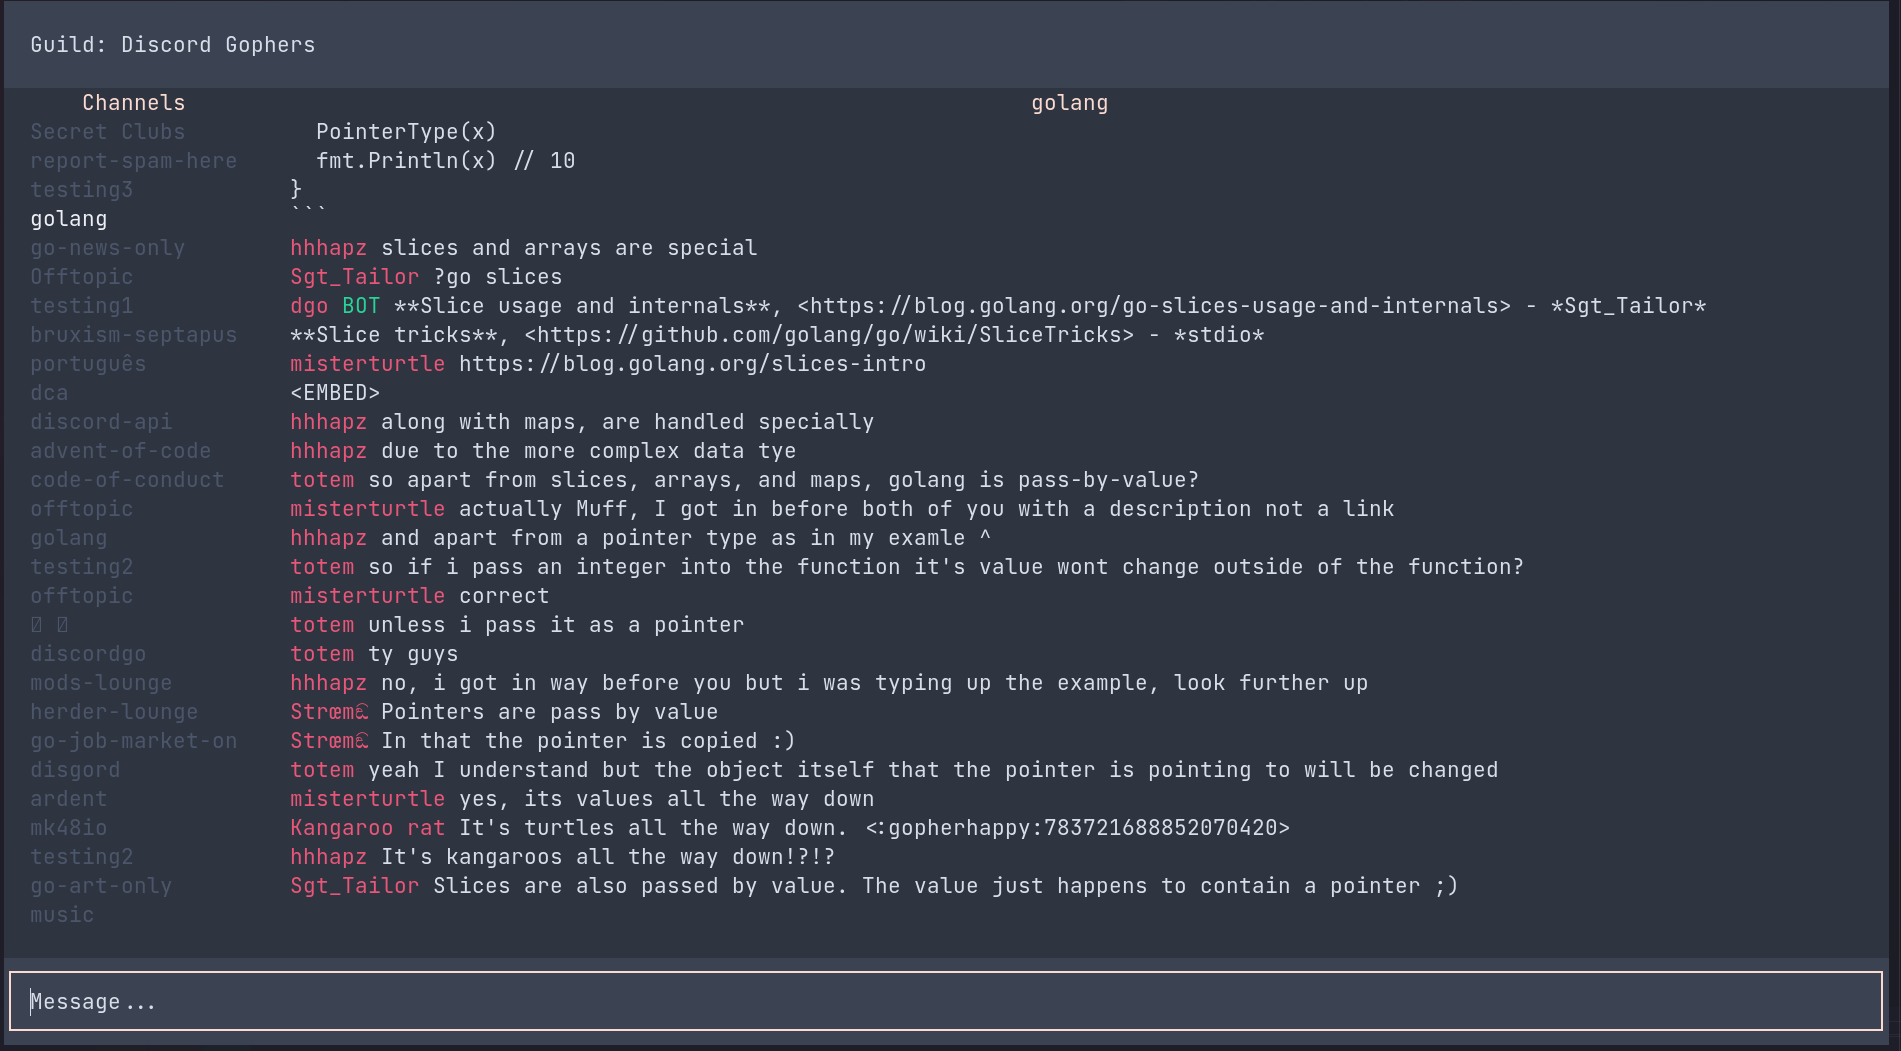
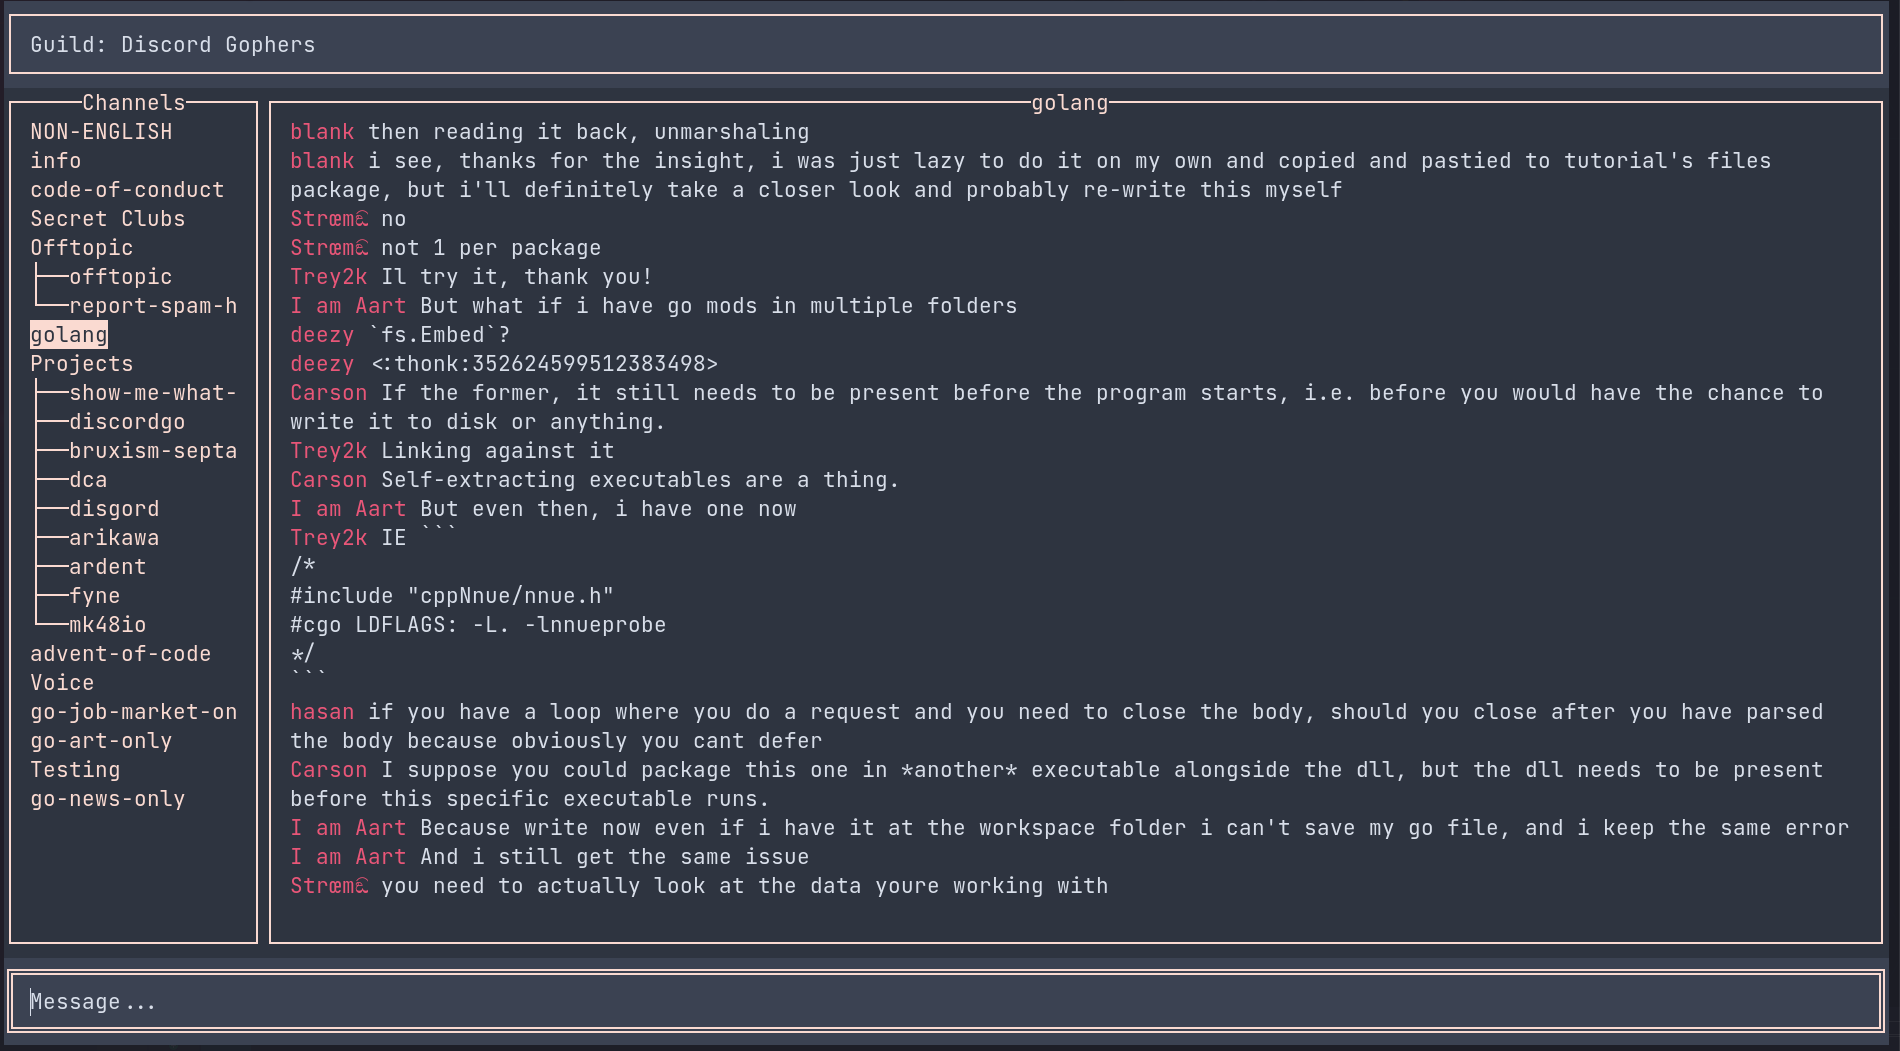
Implement ChannelsTreeView Component for categories (#7)
* Add ChannelsTreeView component

* Remove ChannelsList component

* Implement ChannelsTreeView comp for categories

* Update README preview

diff --git a/discordo.go b/discordo.go
@@ -1,6 +1,7 @@
 package main
 
 import (
+	"sort"
 	"strings"
 
 	"github.com/bwmarrin/discordgo"
@@ -15,7 +16,8 @@ var (
 	loginModal        *tview.Modal
 	loginForm         *tview.Form
 	guildsDropDown    *tview.DropDown
-	channelsList      *tview.List
+	channelsTreeView  *tview.TreeView
+	channelsTreeNode  *tview.TreeNode
 	messagesTextView  *tview.TextView
 	messageInputField *tview.InputField
 	mainFlex          *tview.Flex
@@ -28,25 +30,13 @@ var (
 )
 
 func main() {
-	tview.Borders.HorizontalFocus = tview.Borders.Horizontal
-	tview.Borders.VerticalFocus = tview.Borders.Vertical
-	tview.Borders.TopLeftFocus = tview.Borders.TopLeft
-	tview.Borders.TopRightFocus = tview.Borders.TopRight
-	tview.Borders.BottomLeftFocus = tview.Borders.BottomLeft
-	tview.Borders.BottomRightFocus = tview.Borders.BottomRight
-	tview.Borders.Horizontal = ' '
-	tview.Borders.Vertical = ' '
-	tview.Borders.TopLeft = ' '
-	tview.Borders.TopRight = ' '
-	tview.Borders.BottomLeft = ' '
-	tview.Borders.BottomRight = ' '
-
 	theme = util.NewTheme()
 	loginModal = ui.NewLoginModal(onLoginModalDone)
 	guildsDropDown = ui.NewGuildsDropDown(onGuildsDropDownSelected, theme)
-	channelsList = ui.NewChannelsList(onChannelsListSelected, theme)
+	channelsTreeNode = ui.NewChannelsTreeNode()
+	channelsTreeView = ui.NewChannelsTreeView(channelsTreeNode, onChannelsTreeViewSelected, theme)
 	messagesTextView = ui.NewMessagesTextView(onMessagesTextViewChanged, theme)
-	mainFlex = ui.NewMainFlex(guildsDropDown, channelsList, messagesTextView)
+	mainFlex = ui.NewMainFlex(guildsDropDown, channelsTreeView, messagesTextView)
 	app = ui.NewApp()
 
 	token := util.GetPassword("token")
@@ -145,7 +135,7 @@ func onMessageCreate(_ *discordgo.Session, message *discordgo.MessageCreate) {
 }
 
 func onGuildsDropDownSelected(text string, _ int) {
-	channelsList.Clear()
+	channelsTreeNode.ClearChildren()
 	messagesTextView.Clear()
 
 	if messageInputField != nil {
@@ -162,17 +152,33 @@ func onGuildsDropDownSelected(text string, _ int) {
 		}
 	}
 
-	channelsList.SetTitle("Channels")
-	app.SetFocus(channelsList)
+	channelsTreeView.SetTitle("Channels")
+	app.SetFocus(channelsTreeView)
 
-	for i := range currentGuild.Channels {
-		channel := currentGuild.Channels[i]
-		channelsList.AddItem(channel.Name, "", 0, nil)
+	channels := currentGuild.Channels
+	sort.Slice(channels, func(i, j int) bool {
+		return channels[i].Position < channels[j].Position
+	})
+
+	for i := range channels {
+		channel := channels[i]
+		channelNode := tview.NewTreeNode(channel.Name).
+			SetReference(channel)
+
+		if channel.ParentID == "" {
+			channelsTreeNode.AddChild(channelNode)
+			continue
+		}
+
+		if channel.Type == discordgo.ChannelTypeGuildCategory {
+			channelNode.SetColor(tcell.ColorLightCyan)
+			channelsTreeNode.AddChild(channelNode)
+			continue
+		}
 	}
-
 }
 
-func onChannelsListSelected(i int, mainText string, secondaryText string, _ rune) {
+func onChannelsTreeViewSelected(node *tview.TreeNode) {
 	messagesTextView.Clear()
 
 	if messageInputField == nil {
@@ -180,14 +186,33 @@ func onChannelsListSelected(i int, mainText string, secondaryText string, _ rune
 		mainFlex.AddItem(messageInputField, 3, 1, false)
 	}
 
-	currentChannel = currentGuild.Channels[i]
+	currentChannel = node.GetReference().(*discordgo.Channel)
+	switch currentChannel.Type {
+	case discordgo.ChannelTypeGuildCategory:
+		if len(node.GetChildren()) == 0 {
+			for i := range currentGuild.Channels {
+				channel := currentGuild.Channels[i]
+				if channel.ParentID == currentChannel.ID {
+					channelNode := tview.NewTreeNode(channel.Name).
+						SetReference(channel)
+					node.AddChild(channelNode)
+				}
+			}
+		} else {
+			node.SetExpanded(!node.IsExpanded())
+		}
+	case discordgo.ChannelTypeGuildText:
+		messagesTextView.SetTitle(currentChannel.Name)
+		app.SetFocus(messageInputField)
 
-	messagesTextView.SetTitle(currentChannel.Name)
-	app.SetFocus(messageInputField)
+		messages, err := session.ChannelMessages(currentChannel.ID, 50, "", "", "")
+		if err != nil {
+			panic(err)
+		}
 
-	messages := util.GetMessages(session, currentChannel.ID, 50)
-	for i := len(messages) - 1; i >= 0; i-- {
-		util.WriteMessage(messagesTextView, session, messages[i])
+		for i := len(messages) - 1; i >= 0; i-- {
+			go util.WriteMessage(messagesTextView, session, messages[i])
+		}
 	}
 }
 
@@ -200,7 +225,10 @@ func onMessageInputFieldDone(key tcell.Key) {
 			return
 		}
 
-		util.SendMessage(session, currentChannel.ID, currentText)
+		_, err := session.ChannelMessageSend(currentChannel.ID+"123", currentText)
+		if err != nil {
+			panic(err)
+		}
 
 		messageInputField.SetText("")
 	}

diff --git a/util/theme.go b/util/theme.go
@@ -11,9 +11,7 @@ type Theme struct {
 	InputFieldBackground            string `json:"inputField.background"`
 	InputFieldForeground            string `json:"inputField.foreground"`
 	InputFieldPlaceholderForeground string `json:"inputField.placeholderTextForeground"`
-	ListBackground                  string `json:"list.background"`
-	ListMainTextForeground          string `json:"list.mainTextForeground"`
-	ListSelectedForeground          string `json:"list.selectedTextForeground"`
+	TreeViewBackground              string `json:"treeview.background"`
 	TextViewBackground              string `json:"textview.background"`
 	TextViewForeground              string `json:"textview.foreground"`
 }
@@ -22,9 +20,7 @@ func NewTheme() *Theme {
 	var theme Theme
 	theme.TextViewBackground = "#2E3440"
 	theme.TextViewForeground = "#D8DEE9"
-	theme.ListBackground = "#2E3440"
-	theme.ListMainTextForeground = "#4C566A"
-	theme.ListSelectedForeground = "#ECEFF4"
+	theme.TreeViewBackground = "#2E3440"
 	theme.InputFieldBackground = "#3B4252"
 	theme.InputFieldForeground = "#D8DEE9"
 	theme.InputFieldPlaceholderForeground = "#D8DEE9"

diff --git a/ui/flex.go b/ui/flex.go
@@ -4,20 +4,14 @@ import (
 	"github.com/rivo/tview"
 )
 
-func NewMainFlex(guildsDropDown *tview.DropDown, channelsList *tview.List, messagesTextView *tview.TextView) (mainFlex *tview.Flex) {
-	midFlex := NewMidFlex(channelsList, messagesTextView)
+func NewMainFlex(guildsDropDown *tview.DropDown, channelsTreeView *tview.TreeView, messagesTextView *tview.TextView) (mainFlex *tview.Flex) {
+	midFlex := tview.NewFlex().
+		AddItem(channelsTreeView, 20, 1, false).
+		AddItem(messagesTextView, 0, 3, false)
 	mainFlex = tview.NewFlex().
 		SetDirection(tview.FlexRow).
 		AddItem(guildsDropDown, 3, 1, false).
 		AddItem(midFlex, 0, 1, false)
-
-	return
-}
-
-func NewMidFlex(channelsList *tview.List, messagesTextView *tview.TextView) (midFlex *tview.Flex) {
-	midFlex = tview.NewFlex().
-		AddItem(channelsList, 20, 1, false).
-		AddItem(messagesTextView, 0, 3, false)
 
 	return
 }

diff --git a/ui/treeviews.go b/ui/treeviews.go
@@ -1,0 +1,26 @@
+package ui
+
+import (
+	"github.com/gdamore/tcell/v2"
+	"github.com/rigormorrtiss/discordo/util"
+	"github.com/rivo/tview"
+)
+
+func NewChannelsTreeView(channelsTreeNode *tview.TreeNode, onChannelsTreeViewSelected func(node *tview.TreeNode), theme *util.Theme) (channelsTreeView *tview.TreeView) {
+	channelsTreeView = tview.NewTreeView().
+		SetTopLevel(1).
+		SetRoot(channelsTreeNode).
+		SetCurrentNode(channelsTreeNode).
+		SetSelectedFunc(onChannelsTreeViewSelected)
+	channelsTreeView.
+		SetBackgroundColor(tcell.GetColor(theme.TreeViewBackground)).
+		SetBorder(true).
+		SetBorderPadding(0, 0, 1, 1)
+
+	return
+}
+
+func NewChannelsTreeNode() (channelsTreeNode *tview.TreeNode) {
+	channelsTreeNode = tview.NewTreeNode("")
+	return
+}

diff --git a/util/discord.go b/util/discord.go
@@ -45,19 +45,3 @@ func WriteMessage(messagesTextView *tview.TextView, session *discordgo.Session, 
 
 	fmt.Fprintln(messagesTextView, content.String())
 }
-
-func SendMessage(session *discordgo.Session, channelID string, content string) {
-	_, err := session.ChannelMessageSend(channelID, content)
-	if err != nil {
-		panic(err)
-	}
-}
-
-func GetMessages(session *discordgo.Session, channelID string, limit int) (messages []*discordgo.Message) {
-	messages, err := session.ChannelMessages(channelID, limit, "", "", "")
-	if err != nil {
-		panic(err)
-	}
-
-	return
-}
